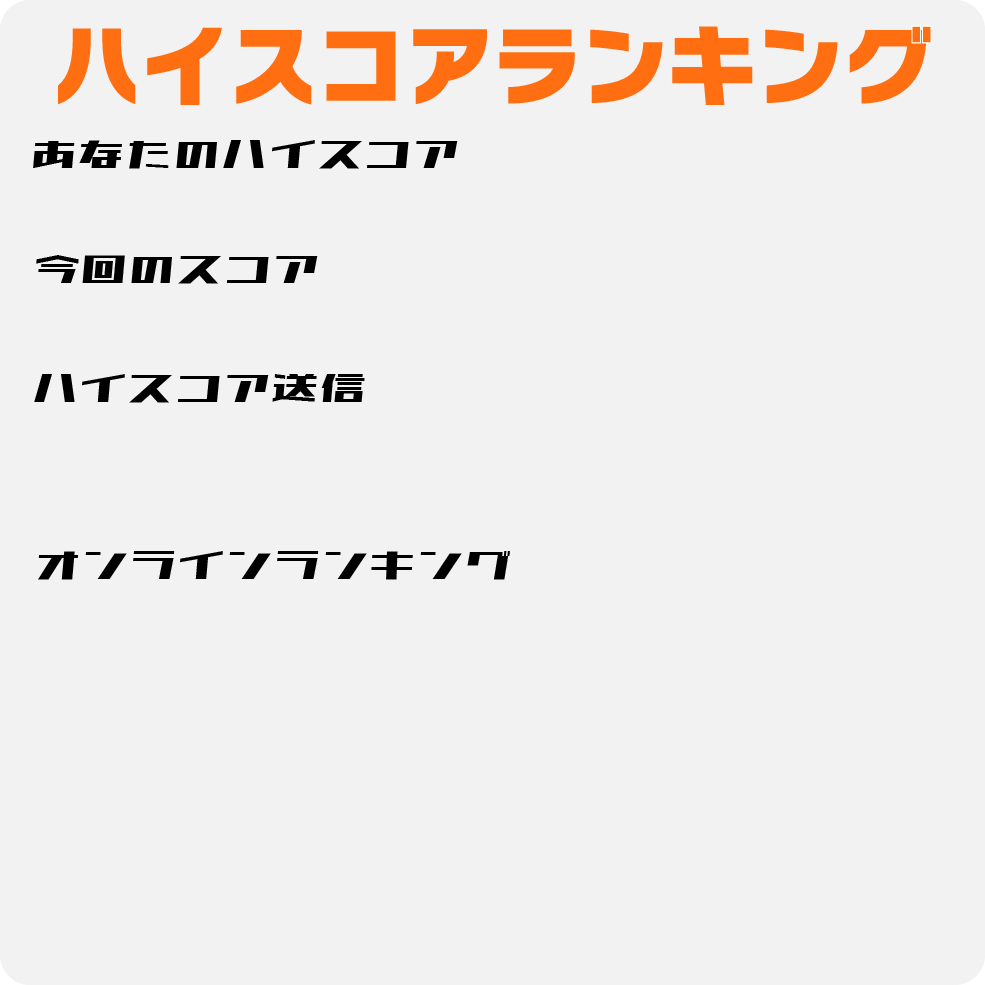
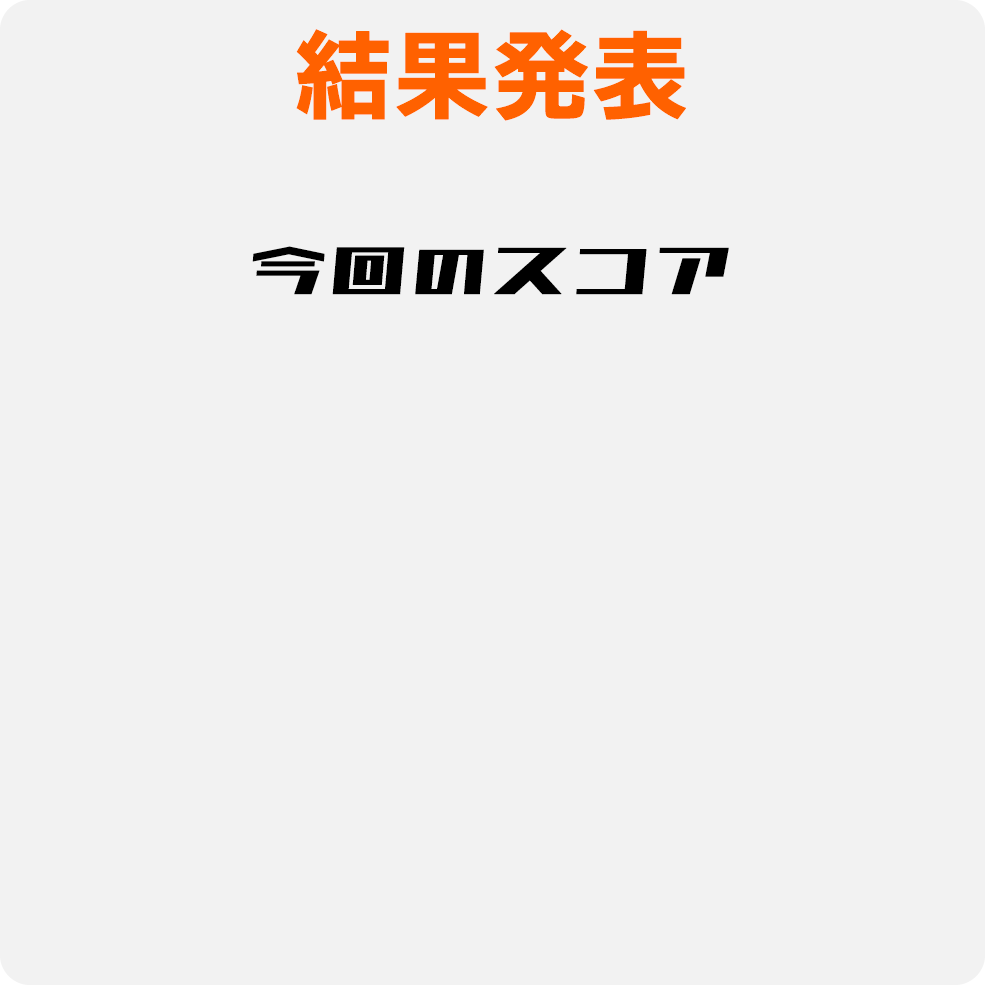
iOS用にランキング機能削除

diff --git a/Assets/Scripts/UIScript.cs b/Assets/Scripts/UIScript.cs
@@ -36,7 +36,7 @@ public class UIScript : MonoBehaviour
         initilal = whiteboard.transform.position;
         Debug.Log(initilal + "white");
 
-        version.text = "ver1.18";
+        version.text = "ver1.0";
         /*
             1.00　リリース　2021.2.28
             1.10　スマホ対応　2021.3.1
@@ -49,6 +49,8 @@ public class UIScript : MonoBehaviour
             1.16　軽微な不具合修正　2021.3.6
             1.17　結果発表画面変更　2021.3.8
             1.18　フォントとか見た目変更　2021.3.15
+
+            ios ver 1.0
         */
     }
 
